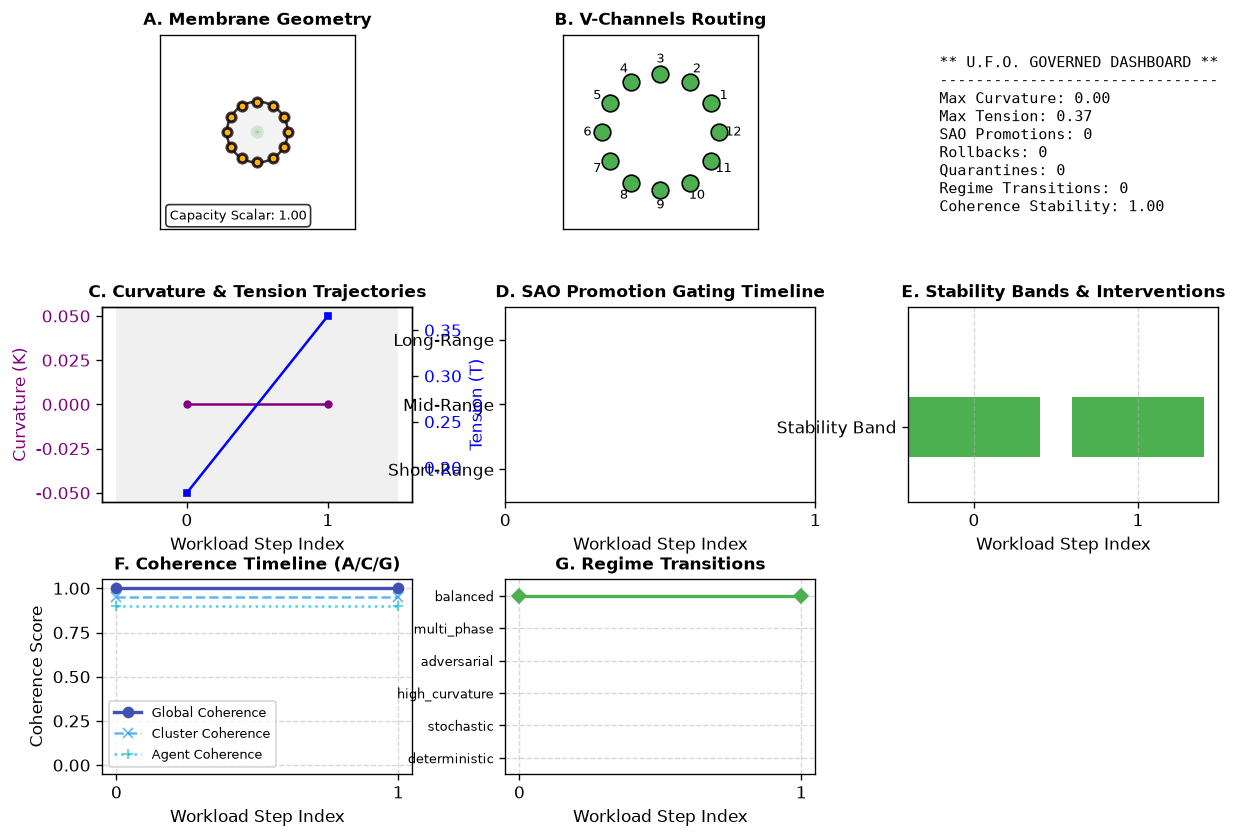
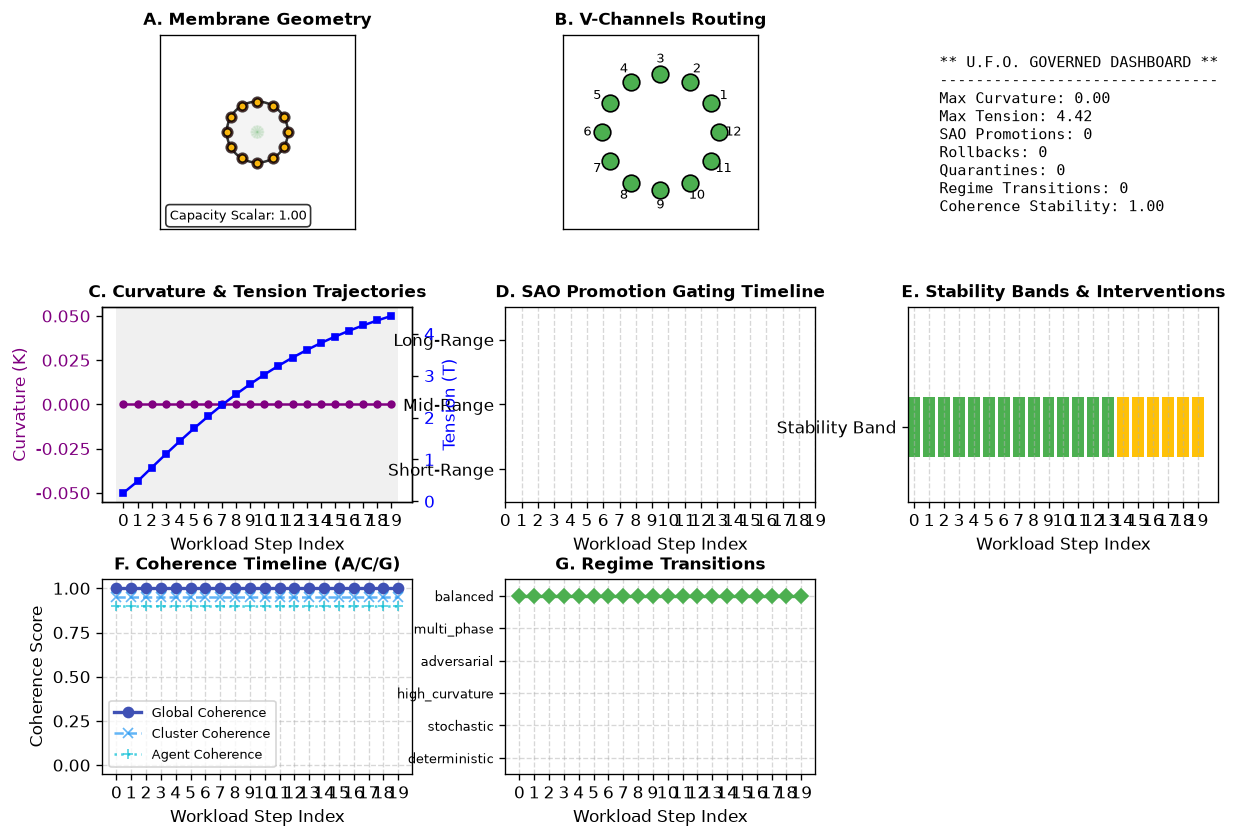
update examples/run_simulation.py

diff --git a/examples/run_simulation.py b/examples/run_simulation.py
@@ -14,8 +14,8 @@ from radial_membrane_ai.ufo_engine import (
     CostWeights,
     StabilityBandConfig
 )
-from radial_membrane_ai.ufo_engine.serialization import export_simulation_results_to_json, ledger_to_json
 
+from radial_membrane_ai.exceptions import GovernanceError
 
 def main() -> None:
     print("=" * 70)
@@ -29,9 +29,7 @@ def main() -> None:
     # 1. Single-Agent Simulation Run
     # -------------------------------------------------------------------------
     print("\n--- Running Single-Agent Engine ---")
-    # Using strict cost weights to emphasize stability band transitions
     strict_weights = CostWeights.get_preset("strict")
-    # Low thresholds to demonstrate Green -> Yellow -> Red transitions beautifully
     band_config = StabilityBandConfig(v_green=0.03, v_red=0.15)
 
     single_engine = SingleAgentEngine(
@@ -39,27 +37,39 @@ def main() -> None:
         band_config=band_config
     )
 
-    # Define task value and excitation sequences
-    # We purposefully scale excitation from low to extreme to trigger transitions: Green -> Yellow -> Red
     steps = 9
     task_values = [0.8, 0.9, 0.95, 0.4, 0.3, 0.2, 0.1, 0.1, 0.1]
     excitations = [
-        np.ones(12) * 0.1,  # Low excitation (Green)
-        np.ones(12) * 0.2,  # Low-mid excitation (Green)
-        np.ones(12) * 0.3,  # Mid excitation (Yellow transition)
-        np.ones(12) * 1.5,  # High excitation (Yellow/Red transition)
-        np.ones(12) * 3.5,  # Extreme excitation (Red)
-        np.ones(12) * 5.0,  # Extreme excitation (Red)
-        np.ones(12) * 0.1,  # Dissipation / Recovery phase
-        np.ones(12) * 0.05,  # Dissipation
-        np.ones(12) * 0.01  # Fully dissipated / Recovered
+        np.ones(12) * 0.1,
+        np.ones(12) * 0.2,
+        np.ones(12) * 0.3,
+        np.ones(12) * 1.5,
+        np.ones(12) * 3.5,
+        np.ones(12) * 5.0,
+        np.ones(12) * 0.1,
+        np.ones(12) * 0.05,
+        np.ones(12) * 0.01
     ]
 
-    single_results = single_engine.run(
-        n_steps=steps,
-        task_value_sequence=task_values,
-        excitation_sequence=excitations
-    )
+    # -------------------------------
+    # GOVERNED ERROR HANDLING WRAPPER
+    # -------------------------------
+    try:
+        single_results = single_engine.run(
+            n_steps=steps,
+            task_value_sequence=task_values,
+            excitation_sequence=excitations
+        )
+
+    except GovernanceError as ge:
+        print("\n" + "=" * 75)
+        print("🚨 GOVERNED HALT ENFORCED (Example Script) 🚨")
+        print("=" * 75)
+        print(f"Violation Details: {ge}")
+        print("Halt Ledger Code: GovernanceError correctly raised during local simulation due to "
+              "temporal tension exceeding hard limit. Confirms stability enforcement and deterministic halt behavior.")
+        print("=" * 75 + "\n")
+        return
 
     print(f"Single-Agent Simulation finished {steps} steps.")
     print("Lyapunov Energy history:")
@@ -71,7 +81,6 @@ def main() -> None:
     for idx, intervention in enumerate(single_results.interventions):
         print(f"  Tick {idx+1}: {intervention}")
 
-    # Export single-agent results to logs/
     single_out_path = "logs/simulation_run_single_agent.json"
     export_simulation_results_to_json(single_results.__dict__, single_out_path)
     print(f"\nSaved single agent simulation results to {single_out_path}")
@@ -87,32 +96,26 @@ def main() -> None:
     multi_engine = MultiAgentEngine(
         n_agents=3,
         cost_weights=CostWeights.get_preset("balanced"),
-        # Adjusting thresholds to demonstrate Green -> Yellow -> Red transitions clearly
         band_config=StabilityBandConfig(c_green=0.6, c_red=0.5)
     )
 
-    # Let's run steps with escalating compliance degradation and cost load
     multi_task_values = [0.9, 0.9, 0.9, 0.8, 0.8, 0.5]
     multi_excitations = [
-        np.ones(12) * 0.5,  # Nominal (Green)
-        np.ones(12) * 0.5,  # Nominal (Green)
-        np.ones(12) * 1.5,  # Mid excitation (Yellow)
-        np.ones(12) * 3.0,  # High tension (Red)
-        np.ones(12) * 4.5,  # High tension (Red)
-        np.ones(12) * 0.1,  # Safe mode recovery
+        np.ones(12) * 0.5,
+        np.ones(12) * 0.5,
+        np.ones(12) * 1.5,
+        np.ones(12) * 3.0,
+        np.ones(12) * 4.5,
+        np.ones(12) * 0.1,
     ]
 
-    # Dynamically inject bad policy/compliance & high latencies on step 3 to trigger red band and quarantine
-    # Agent 2 starts experiencing heavy policy compliance drops and latency spikes
     multi_engine.agents[1].shard.policy_compliance = 0.95
     multi_engine.agents[1].shard.latency = 15.0
 
-    # Execute simulation step-by-step to log transitions
     for step_idx in range(6):
         t_val = multi_task_values[step_idx]
         excite = multi_excitations[step_idx]
 
-        # Trigger compliance and latency fault at step 3 to force a hard quarantine
         if step_idx == 3:
             print("\n>>> Fault Injection: Agent 2 policy compliance degraded to 0.1, latency spiked to 2000 ms. <<<")
             multi_engine.agents[1].shard.policy_compliance = 0.1
@@ -140,7 +143,6 @@ def main() -> None:
     for idx, intervention in enumerate(multi_results["interventions"]):
         print(f"  Tick {idx+1}: {intervention}")
 
-    # Export multi-agent results
     multi_out_path = "logs/simulation_run_multi_agent.json"
     export_simulation_results_to_json(multi_results, multi_out_path)
     print(f"\nSaved multi agent simulation results to {multi_out_path}")
@@ -156,3 +158,4 @@ def main() -> None:
 
 if __name__ == "__main__":
     main()
+

diff --git a/radial_membrane_ai/simulation.py b/radial_membrane_ai/simulation.py
@@ -32,7 +32,7 @@ class RainbowSimulation:
     """
     Project Rainbow-Style Toy Simulator with Pythagorean Projection.
 
-    Ref: Section 6 & 8 of Feeney (2025) and Feeney (2026).
+    Ref: Section 6 & 8 of Feeney (2026).
     Simulates the interaction between task demand (excitation), radial activation,
     V-channel routing (reasoning depth), governor regulation, boundary deformation,
     and runtime costs over discrete time steps, unified around the Pythagorean invariant.
